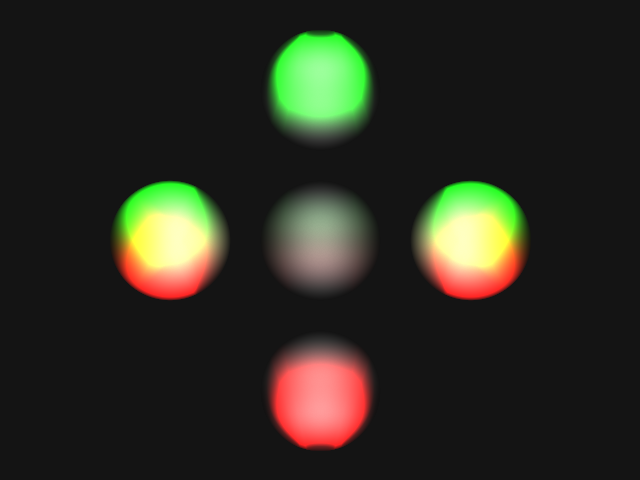
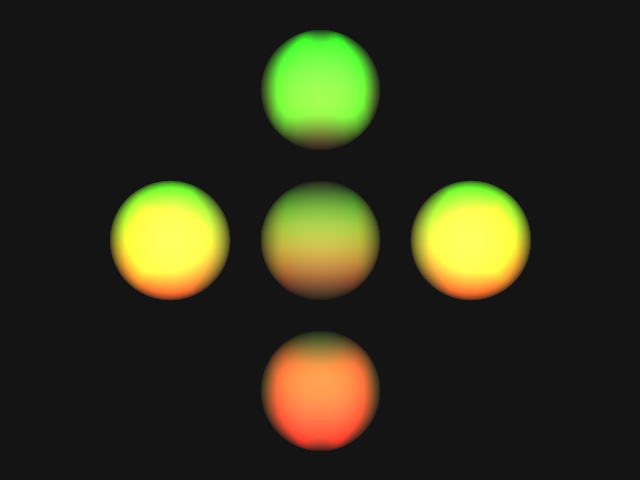
cool

diff --git a/raytracer/OCTracer.cpp b/raytracer/OCTracer.cpp
@@ -60,7 +60,7 @@ Vector3 OCTracer::calcColorOfRay(Scene* 	pScene,
 		auto zEnd = zBuffer.end();
 		for(auto it = zBuffer.begin(); it != zEnd; ++it) {
 			IntersectionInfo info = *it;
-			double dLambda = 0.0159;
+			double dLambda = 0.2159;
 			double dTau = exp(-dLambda * info.m_vSegmentLengths[0]);
 			double dOpacity = 1-dTau;
 			Vector3 vPower = Vector3(0.0, 0.0, 0.0);
